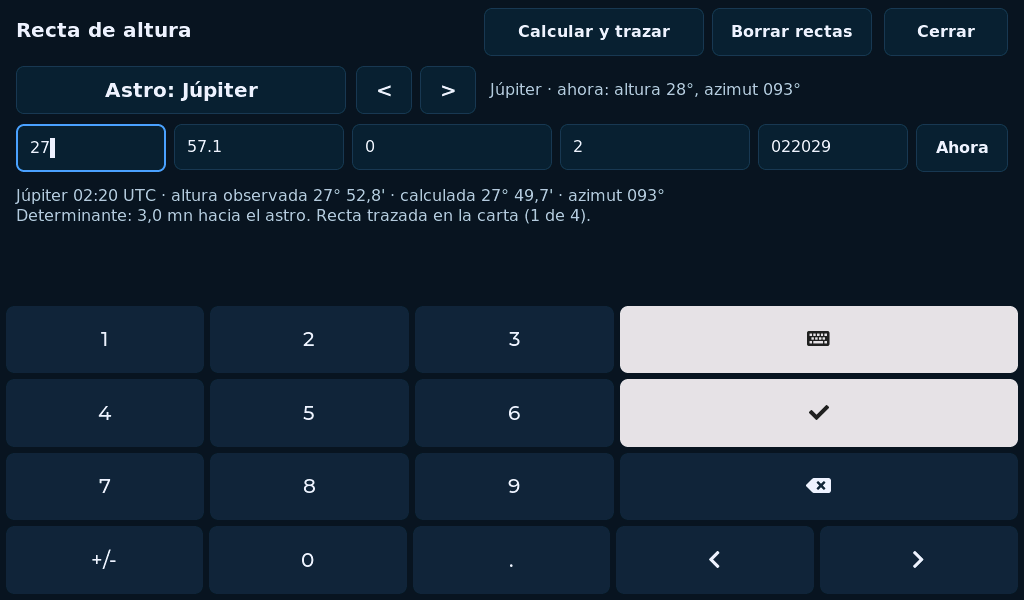
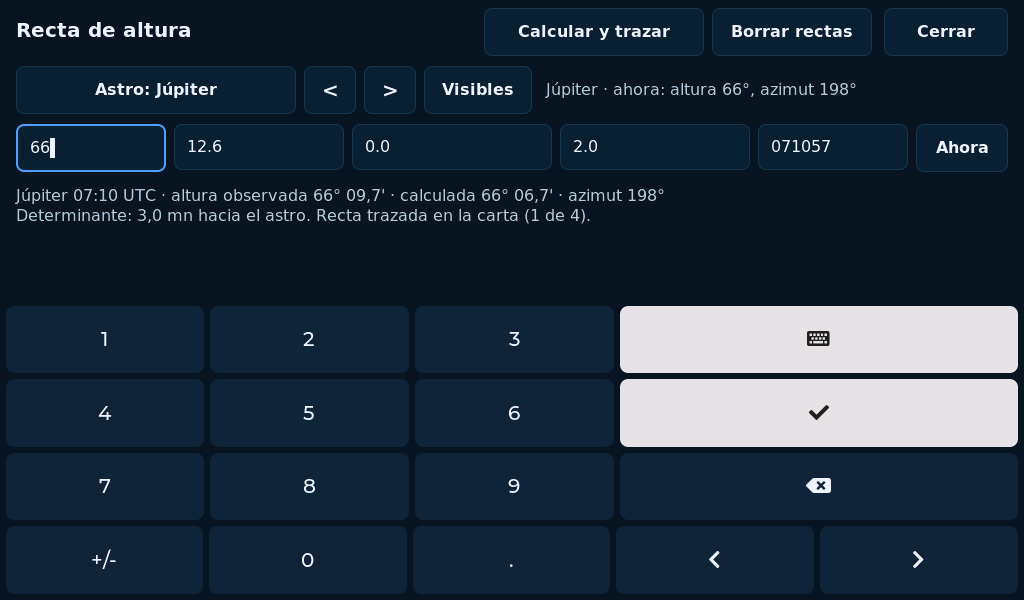
Astro: lista de astros visibles ahora y las tres estrellas que mejor sitúan
Claude-Session: https://claude.ai/code/session_017B8KvGdeNYekR2x3YiyR1X

diff --git a/src/ui.cpp b/src/ui.cpp
@@ -214,6 +214,9 @@ static lv_obj_t* astroKb = nullptr;
 static lv_obj_t* astroBodyLbl = nullptr;
 static lv_obj_t* astroStarLbl = nullptr;
 static lv_obj_t* astroOut = nullptr;
+static lv_obj_t* astroListScr = nullptr;                 // Astro > Visibles
+static lv_obj_t* astroListBox = nullptr;
+static lv_obj_t* astroListNote = nullptr;
 static int astroBody = 0;                               // 0 / 1 Sol limbo inferior / superior, 2 / 3 Luna, 4 a 7 Venus, Marte, Jupiter y Saturno, 8 estrella
 static int astroStar = 0;
 static void openAstro();
@@ -2116,6 +2119,95 @@ static void astroCompute() {
     lv_label_set_text(astroOut, b);
 }
 
+// ---- Astro > Visibles: lo que se puede observar ahora, por azimut, con las tres estrellas que mejor sitúan ----
+static plotter::SkyItem astroSky[200];
+static int astroSkyN = 0;
+static void openAstroList();
+
+static void onAstroPick(lv_event_t* e) {
+    const int i = (int)(intptr_t)lv_event_get_user_data(e);
+    lv_obj_set_hidden(astroListScr, true);
+    if (i < 0 || i >= astroSkyN) return;
+    const plotter::SkyItem& s = astroSky[i];
+    if (s.kind == 0) astroBody = 0;
+    else if (s.kind == 1) astroBody = 2;
+    else if (s.kind == 2) astroBody = 4 + s.index;
+    else { astroBody = kAstroStar; astroStar = s.index; }
+    astroRefresh();
+}
+
+static void makeAstroList() {
+    astroListScr = lv_obj_create(astroScr);
+    lv_obj_remove_style_all(astroListScr);
+    lv_obj_set_size(astroListScr, board::W, board::H);
+    lv_obj_set_style_bg_color(astroListScr, lv_color_hex(C_BG), 0);
+    lv_obj_set_style_bg_opa(astroListScr, LV_OPA_COVER, 0);
+    lv_obj_set_scrollable(astroListScr, false);
+    lv_obj_set_clickable(astroListScr, true);
+    lv_obj_t* t = label(astroListScr, "Astros visibles ahora", &dejavu_bold_20, C_TEXT);
+    lv_obj_set_pos(t, 16, 18);
+    lv_obj_t* b = textButton(astroListScr, "Cerrar", 124, 48, onAstroPick, -1);
+    lv_obj_set_pos(b, 884, 8);
+    astroListNote = label(astroListScr, "", &dejavu_16, C_SOFT);
+    lv_obj_set_pos(astroListNote, 16, 64);
+    lv_obj_set_width(astroListNote, 992);
+    astroListBox = lv_obj_create(astroListScr);
+    lv_obj_remove_style_all(astroListBox);
+    lv_obj_set_pos(astroListBox, 16, 116);
+    lv_obj_set_size(astroListBox, 992, board::H - 126);
+    lv_obj_set_flex_flow(astroListBox, LV_FLEX_FLOW_ROW_WRAP);
+    lv_obj_set_style_pad_gap(astroListBox, 8, 0);
+    lv_obj_set_scroll_dir(astroListBox, LV_DIR_VER);
+}
+
+static void openAstroList() {
+    if (!astroListScr) makeAstroList();
+    lv_obj_clean(astroListBox);
+    astroSkyN = 0;
+    const uint32_t now = millis();
+    double la, lo;
+    const int64_t t = tsync::now();
+    if (!store->get(Key::Lat, now, la) || !store->get(Key::Lon, now, lo) || t < 1600000000) {
+        lv_label_set_text(astroListNote, "Hace falta la posici\xC3\xB3n del barco y la hora para saber qu\xC3\xA9 astros hay sobre el horizonte.");
+        lv_obj_set_hidden(astroListScr, false);
+        return;
+    }
+    const double jd = t / 86400.0 + 2440587.5;
+    astroSkyN = plotter::visibleBodies(jd, la, lo, 10, 80, astroSky, 200);
+    int best[3] = {-1, -1, -1};
+    const bool trio = plotter::bestStarTriple(astroSky, astroSkyN, best);
+    double gha, dec, sunAlt, sunAz;
+    plotter::sunGhaDec(jd, gha, dec);
+    plotter::bodyAltAz(gha, dec, la, lo, sunAlt, sunAz);
+    char note[260];
+    const char* phase = sunAlt > -3 ? " Es de d\xC3\xAD" "a: de las estrellas solo se ven las m\xC3\xA1s brillantes, y con dificultad."
+                      : (sunAlt < -12 ? " Noche cerrada: sin horizonte visible las alturas no son fiables."
+                                      : " Crep\xC3\xBAsculo: buen momento para tomar estrellas.");
+    snprintf(note, sizeof(note), "Entre 10\xC2\xB0 y 80\xC2\xB0 de altura, por azimut.%s%s", phase,
+             trio ? "\nEn amarillo, las tres estrellas que mejor reparten el horizonte." : "");
+    lv_label_set_text(astroListNote, note);
+    static const char* pn[] = {"Venus", "Marte", "J\xC3\xBApiter", "Saturno"};
+    for (int i = 0; i < astroSkyN; i++) {
+        const plotter::SkyItem& s = astroSky[i];
+        const bool pick = trio && (i == best[0] || i == best[1] || i == best[2]);
+        char txt[64];
+        const char* nm = s.kind == 0 ? "Sol" : (s.kind == 1 ? "Luna" : (s.kind == 2 ? pn[s.index & 3] : plotter::navStar(s.index).name));
+        snprintf(txt, sizeof(txt), "%s  %.0f\xC2\xB0 / %03.0f\xC2\xB0", nm, (double)s.alt, (double)s.az);
+        lv_obj_t* b = textButton(astroListBox, txt, 324, 44, onAstroPick, i);
+        if (s.kind < 3 || s.index < plotter::navStarCount())                // los de las tablas diarias, en blanco; los demas, apagados
+            lv_obj_set_style_text_color(lv_obj_get_child(b, 0), lv_color_hex(C_TEXT), 0);
+        else lv_obj_set_style_text_color(lv_obj_get_child(b, 0), lv_color_hex(C_SOFT), 0);
+        if (pick) {
+            lv_obj_set_style_border_color(b, lv_color_hex(C_WARN), 0);
+            lv_obj_set_style_border_width(b, 3, 0);
+            lv_obj_set_style_text_color(lv_obj_get_child(b, 0), lv_color_hex(C_WARN), 0);
+        }
+    }
+    if (!astroSkyN) lv_label_set_text(astroListNote, "Ning\xC3\xBAn astro entre 10\xC2\xB0 y 80\xC2\xB0 de altura.");
+    lv_obj_scroll_to_y(astroListBox, 0, LV_ANIM_OFF);
+    lv_obj_set_hidden(astroListScr, false);
+}
+
 static void onAstroBtn(lv_event_t* e) {
     const int a = (int)(intptr_t)lv_event_get_user_data(e);
     if (a == 0) astroBody = (astroBody + 1) % 9;
@@ -2124,6 +2216,7 @@ static void onAstroBtn(lv_event_t* e) {
     else if (a == 3) astroNow();
     else if (a == 4) astroCompute();
     else if (a == 5) { lopN = 0; astroFixOn = false; lv_label_set_text(astroOut, "Rectas borradas."); }
+    else if (a == 7) { openAstroList(); return; }
     else { lv_obj_set_hidden(astroScr, true); return; }
     astroRefresh();
 }
@@ -2153,15 +2246,18 @@ static void makeAstro() {
     lv_obj_set_pos(b, 712, 8);
     b = textButton(astroScr, "Cerrar", 124, 48, onAstroBtn, 6);
     lv_obj_set_pos(b, 884, 8);
-    b = textButton(astroScr, "", 330, 48, onAstroBtn, 0);
+    b = textButton(astroScr, "", 280, 48, onAstroBtn, 0);
     lv_obj_set_pos(b, 16, 66);
     astroBodyLbl = lv_obj_get_child(b, 0);
-    b = textButton(astroScr, "<", 56, 48, onAstroBtn, 1);
-    lv_obj_set_pos(b, 356, 66);
-    b = textButton(astroScr, ">", 56, 48, onAstroBtn, 2);
-    lv_obj_set_pos(b, 420, 66);
+    lv_obj_set_style_text_font(astroBodyLbl, &dejavu_bold_16, 0);
+    b = textButton(astroScr, "<", 52, 48, onAstroBtn, 1);
+    lv_obj_set_pos(b, 304, 66);
+    b = textButton(astroScr, ">", 52, 48, onAstroBtn, 2);
+    lv_obj_set_pos(b, 364, 66);
+    b = textButton(astroScr, "Visibles", 108, 48, onAstroBtn, 7);
+    lv_obj_set_pos(b, 424, 66);
     astroStarLbl = label(astroScr, "", &dejavu_16, C_SOFT);
-    lv_obj_set_pos(astroStarLbl, 490, 80);
+    lv_obj_set_pos(astroStarLbl, 546, 80);
     static const struct { int x, w, max; const char* hint; const char* chars; } F[5] = {
         {16, 150, 2, "Grados", "0123456789"}, {174, 170, 4, "Minutos", "0123456789.,"}, {352, 200, 5, "Error \xC3\xADndice, '", "-0123456789.,"},
         {560, 190, 4, "Ojo, m", "0123456789.,"}, {758, 150, 6, "UTC hhmmss", "0123456789"}};
@@ -2233,6 +2329,7 @@ void testAstro(const char* star, double errArcmin) {
 }
 
 void closeAstro() { if (astroScr) lv_obj_set_hidden(astroScr, true); }
+void testAstroList() { if (!astroScr) return; lv_obj_set_hidden(astroScr, false); openAstroList(); }
 
 static void makeAbout() {
     aboutScr = lv_obj_create(lv_layer_top());

diff --git a/lib/plotter_core/src/celnav.cpp b/lib/plotter_core/src/celnav.cpp
@@ -320,4 +320,53 @@ bool fixFromSights(double lat, double lon, const Sight* sg, int n, double& outLa
     return true;
 }
 
+int visibleBodies(double jd, double lat, double lon, double minAlt, double maxAlt, SkyItem* out, int max) {
+    int n = 0;
+    auto add = [&](int kind, int index, double gha, double dec, float mag) {
+        if (n >= max) return;
+        double alt, az;
+        bodyAltAz(gha, dec, lat, lon, alt, az);
+        if (alt < minAlt || alt > maxAlt) return;
+        out[n++] = SkyItem{(unsigned char)kind, (short)index, (float)alt, (float)az, mag};
+    };
+    double gha, dec, d;
+    sunGhaDec(jd, gha, dec);
+    add(0, 0, gha, dec, -26.7f);
+    moonGhaDec(jd, gha, dec, d);
+    add(1, 0, gha, dec, -10.0f);
+    static const float pmag[4] = {-4.2f, 0.5f, -2.3f, 0.7f};
+    for (int p = 0; p < 4; p++) {
+        planetGhaDec(Planet(p), jd, gha, dec, d);
+        add(2, p, gha, dec, pmag[p]);
+    }
+    const double aries = ariesGha(jd);
+    for (int i = 0; i < kStarCount; i++) {
+        double sha;
+        starShaDec(kStars[i], jd, sha, dec);
+        add(3, i, std::fmod(aries + sha, 360.0), dec, kStars[i].mag);
+    }
+    for (int i = 1; i < n; i++)                                   // por azimut (insercion: pocas decenas)
+        for (int j = i; j > 0 && out[j].az < out[j - 1].az; j--) { SkyItem t = out[j]; out[j] = out[j - 1]; out[j - 1] = t; }
+    return n;
+}
+
+bool bestStarTriple(const SkyItem* it, int n, int idx[3]) {
+    auto sep = [](float a, float b) { float d = std::fabs(a - b); return d > 180 ? 360 - d : d; };
+    double best = -1;
+    for (int a = 0; a < n; a++) {
+        if (it[a].kind != 3 || it[a].alt < 15 || it[a].alt > 75) continue;
+        for (int b = a + 1; b < n; b++) {
+            if (it[b].kind != 3 || it[b].alt < 15 || it[b].alt > 75) continue;
+            for (int c = b + 1; c < n; c++) {
+                if (it[c].kind != 3 || it[c].alt < 15 || it[c].alt > 75) continue;
+                float m = std::fmin(sep(it[a].az, it[b].az), std::fmin(sep(it[a].az, it[c].az), sep(it[b].az, it[c].az)));
+                // reparto en pasos de 10 grados; dentro del mismo paso, mas brillo (magnitud menor) gana
+                const double score = std::floor(m / 10.0) * 100.0 - (it[a].mag + it[b].mag + it[c].mag);
+                if (score > best) { best = score; idx[0] = a; idx[1] = b; idx[2] = c; }
+            }
+        }
+    }
+    return best >= 0;
+}
+
 }  // namespace plotter

diff --git a/test/host/test_core.cpp b/test/host/test_core.cpp
@@ -2049,6 +2049,31 @@ static void testCelnav() {
     // Otras estrellas (catalogo HYG / Hipparcos) contra la tabla mensual del almanaque de junio de 2026 (medias del mes: 0,3')
     CHECK(starCount() == 157 && navStarFind("Caph") >= 58 && std::string(navStar(57).name) == "Polaris");
     {
+        // Cielo visible: 15 de junio de 2026, 21:30 UTC, en 36,5 N 6,3 W (crepusculo nautico en Cadiz)
+        static SkyItem it[200];
+        const double jd = julianDay(2026, 6, 15, 21.5);
+        const int n = visibleBodies(jd, 36.5, -6.3, 10, 80, it, 200);
+        bool sorted = true, inRange = true, sun = false, vega = false, polaris = false;
+        for (int i = 0; i < n; i++) {
+            if (i && it[i].az < it[i - 1].az) sorted = false;
+            if (it[i].alt < 10 || it[i].alt > 80) inRange = false;
+            if (it[i].kind == 0) sun = true;
+            if (it[i].kind == 3 && std::string(navStar(it[i].index).name) == "Vega") vega = true;
+            if (it[i].kind == 3 && it[i].index == 57) {
+                polaris = near(it[i].alt, 36.5 + (navStar(57).decDeg - 90) * std::cos(deg2rad(it[i].az)) * 0, 1.0);
+            }
+        }
+        CHECK(n > 40 && sorted && inRange && !sun && vega && polaris);
+        int t[3];
+        CHECK(bestStarTriple(it, n, t));
+        auto sep = [](float a, float b) { float d = std::fabs(a - b); return d > 180 ? 360 - d : d; };
+        CHECK(sep(it[t[0]].az, it[t[1]].az) >= 100 && sep(it[t[0]].az, it[t[2]].az) >= 100 && sep(it[t[1]].az, it[t[2]].az) >= 100);
+        CHECK(it[t[0]].kind == 3 && it[t[1]].kind == 3 && it[t[2]].kind == 3 && it[t[0]].mag < 2.5 && it[t[1]].mag < 2.5 && it[t[2]].mag < 2.5);
+        SkyItem day[10];
+        const int nd = visibleBodies(julianDay(2026, 6, 15, 12), 36.5, -6.3, 10, 90, day, 10);
+        CHECK(nd == 10 && !bestStarTriple(day, 0, t));
+    }
+    {
         struct { const char* n; double sha, dec; } ex[] = {{"Caph", 357 + 21.3 / 60, 59 + 17.5 / 60}, {"Mimosa", 167 + 40.6 / 60, -(59 + 50.3 / 60)},
             {"Scheat", 13 + 44.0 / 60, 28 + 13.4 / 60}, {"Alhena", 260 + 11.6 / 60, 16 + 22.6 / 60}, {"Sargas", 95 + 11.1 / 60, -(43 + 0.8 / 60)}};
         for (const auto& x : ex) {

diff --git a/lib/plotter_core/src/celnav.h b/lib/plotter_core/src/celnav.h
@@ -72,4 +72,16 @@ Sight advanceSight(const Sight& s, double fromLat, double fromLon, double toLat,
 // Situacion por dos o mas rectas (minimos cuadrados alrededor de la estima). false si son casi paralelas.
 bool fixFromSights(double estLat, double estLon, const Sight* sights, int n, double& lat, double& lon);
 
+// Astros que se pueden observar ahora: Sol, Luna, los cuatro planetas y las estrellas entre minAlt y maxAlt (altura
+// verdadera, grados), ordenados por azimut. kind: 0 Sol, 1 Luna, 2 planeta (index = Planet), 3 estrella (index de navStar).
+struct SkyItem {
+    unsigned char kind;
+    short index;
+    float alt, az, mag;            // mag: la del catalogo en estrellas; aproximada en el resto
+};
+int visibleBodies(double jd, double lat, double lon, double minAlt, double maxAlt, SkyItem* out, int max);
+// Tres estrellas para una buena situacion: las que mejor reparten el horizonte (mayor separacion minima de azimut,
+// lo ideal 120 grados), y entre parecidas las mas brillantes. Solo estrellas de 15 a 75 grados. false si no hay tres.
+bool bestStarTriple(const SkyItem* items, int n, int idx[3]);
+
 }  // namespace plotter

diff --git a/tools/ui_preview/host.cpp b/tools/ui_preview/host.cpp
@@ -68,6 +68,7 @@ int main(int argc, char** argv) {
             else if (a == "barco") ui::testVessel();
             else if (a.rfind("astro:", 0) == 0) { size_t c = a.find(':', 6); ui::testAstro(a.substr(6, c == std::string::npos ? c : c - 6).c_str(), c == std::string::npos ? 0.0 : atof(a.c_str() + c + 1)); }
             else if (a == "astrocerrar") ui::closeAstro();
+            else if (a == "astrolista") ui::testAstroList();
             else if (a == "rs485") ui::testRs485();
             else if (sscanf(a.c_str(), "piloto:%d", &x) == 1) settings::get().pilotOut = x;   // 1 RS485, 2 red, 3 Bluetooth
             else if (a == "internet") ui::testInternet();

diff --git a/src/ui.h b/src/ui.h
@@ -19,6 +19,7 @@ void testRs485();                   // abre el aviso de RS485 compartido
 void testInternet();                // mete una observacion de internet de prueba
 void testNet();                     // abre la pantalla de red
 void testAbout();                   // abre "Acerca de"
+void testAstroList();                                  // Astro > Visibles (dibujo del PC)
 void testAstro(const char* star, double errArcmin);   // abre Carta > Astro y traza una recta ("" = el Sol)
 void closeAstro();
 void testVessel();                  // abre Ajustes > Embarcacion

diff --git a/CLAUDE.md b/CLAUDE.md
@@ -506,6 +506,8 @@ Maquetas (lienzo Design, cuatro páginas por fases): https://claude.ai/artifact/
 
 - **Otras estrellas e índice / ojo en NVS (2026-11-15; Manuel: «Continuar»)**: `celnav_stars.inc` con 157 estrellas: las 58 de siempre (mismos índices, `navStarCount()` = 58) y detrás 99 de las «otras estrellas» del almanaque más las de sus páginas diarias que faltaban (Albireo, Almach, Castor, Cor Caroli, Merak, Mizar, Phact), `starCount()`. Datos en `tools/celnav/extra_stars.csv`, sacados de la HYG Database v4.1 (CC BY-SA 4.0, Hipparcos) casando por posición con la tabla del almanaque (todas a ≤ 0,3′ salvo Beta Hyi, 0,5′); nombres propios de la UAI o «Beta Hyi». `make_stars.py` las añade. Carta > Astro recorre las 157; `settings.astroIdx10` / `astroEye10` (NVS `astIdx`, `astEye`) guardan error de índice y ojo al calcular. 1824 comprobaciones. **Rectas en el mapa de la app: descartado por Manuel.**
 
+- **Astros visibles (2026-11-15; Manuel: «continua»)**: `celnav::visibleBodies` (Sol, Luna, planetas y las 157 estrellas entre dos alturas, por azimut; `SkyItem`) y `bestStarTriple` (tres estrellas de 15° a 75° con la mayor separación mínima de azimut en pasos de 10°, y entre iguales las más brillantes). Carta > Astro > **Visibles** (`openAstroList`, 10° a 80°, botones de 3 columnas; blanco = tablas diarias, gris = las otras 99, amarillo = el trío; nota de día / crepúsculo (−3° a −12°) / noche). El rótulo del astro pasa a negrita de 16 (no cabía «Luna (limbo inferior)»). Dibujo: acción `astrolista`; captura `astro_visibles.png`. 1829 comprobaciones.
+
 ## Siguiente
 1. Hechos Instrumentos, Carta (teselas, ir a, waypoints, MOB), Radar AIS, alertas y Ajustes básicos (ver Estado). Rutas y
    medir hechos. Fondeo, unidades, mapa base, NMEA 2000 (escucha) y red (WiFi, NMEA por TCP / UDP, gpsd) hechos. Pestaña Viento hecha. Pestaña Piloto hecha. Relevo por internet y pestaña Meteo hechos. BLE con la pasarela hecho (lado plotter). Signal K nativo hecho. Lo siguiente: zumbador (pin por decidir), AEMET, lista de equipos BLE, y probar en la placa.

diff --git a/docs/MANUAL_USUARIO.md b/docs/MANUAL_USUARIO.md
@@ -126,6 +126,10 @@ Si pasa un minuto sin posición, **ANCHOR WATCH · NO GPS FIX**. El fondeo se gu
 El botón **Astro** de la carta abre *Recta de altura*, para situarse con el sextante sin tablas ni almanaque:
 
 1. Elige el astro: el botón *Astro* pasa por **Sol** y **Luna** (limbo inferior o superior), **Venus**, **Marte**, **Júpiter**, **Saturno** y **Estrella**; con `<` y `>` se recorren las 57 estrellas de navegación y la Polar y, detrás, otras 99 estrellas brillantes de los almanaques (Caph, Mimosa, Castor, Mizar...). De la Luna, los planetas y cada estrella se dice la altura y el azimut que tiene ahora, para reconocerla.
+   **Visibles** abre la lista de lo que hay ahora entre 10° y 80° de altura (Sol, Luna, planetas y estrellas), ordenada por azimut, con altura y azimut de cada uno; tocar uno lo elige. En blanco, los de las tablas diarias del almanaque; en gris, las demás estrellas. **En amarillo, las tres estrellas que mejor reparten el horizonte** (las más separadas en azimut, lo ideal 120°, y entre parecidas las más brillantes). Avisa si es de día, crepúsculo (el buen momento) o noche cerrada.
+
+   ![Astros visibles](img/astro_visibles.png)
+
 2. En el instante de la medida pulsa **Ahora** (o escribe la hora UTC como `hhmmss`).
 3. Escribe la altura del sextante (grados y minutos), el error de índice en minutos (positivo si el sextante marca de más) y la elevación del ojo en metros. Estos dos últimos se recuerdan para la próxima vez.
 4. **Calcular y trazar**: se aplican la depresión del horizonte, la refracción, el semidiámetro y el paralaje (del Sol, de la Luna —hasta 1° — y de los planetas), y sale la altura observada, la calculada, el azimut y el **determinante** (millas hacia el astro o en contra). La recta queda dibujada en la carta, en amarillo, con el astro y la hora.

diff --git a/docs/USER_MANUAL_EN.md b/docs/USER_MANUAL_EN.md
@@ -130,6 +130,10 @@ power cycle.
 The **Astro** button on the chart opens *Recta de altura* (line of position), to fix your position with a sextant, with no tables or almanac:
 
 1. Choose the body: the *Astro* button cycles **Sol (limbo inferior)** (Sun, lower limb), **Sol (limbo superior)** (upper limb) and **Estrella** (star); `<` and `>` step through the 57 navigational stars and Polaris, followed by 99 more bright almanac stars (Caph, Mimosa, Castor, Mizar...). The index error and eye height are remembered for next time. For each star it shows its altitude and azimuth right now, to identify it.
+   **Visibles** (visible now) lists what is between 10° and 80° of altitude right now (Sun, Moon, planets and stars), sorted by azimuth, with altitude and azimuth; tap one to choose it. White: bodies of the almanac daily pages; grey: the other stars. **Yellow: the three stars that best spread round the horizon** (widest azimuth separation, ideally 120°, brightest among similar ones). The note says whether it is day, twilight (the right time) or full night.
+
+   ![Visible bodies](img/astro_visibles.png)
+
 2. At the instant of the sight press **Ahora** (now), or type the UTC time as `hhmmss`.
 3. Type the sextant altitude (*Grados*, *Minutos*), the index error in minutes (*Error índice*, positive if the sextant reads high) and the height of eye in metres (*Ojo*).
 4. **Calcular y trazar** (compute and plot): dip, refraction, semi-diameter and the Sun's parallax are applied, and you get the observed altitude, the computed altitude, the azimuth and the **intercept** (*Determinante*: miles *hacia el astro*, towards, or *en contra*, away). The line is drawn on the chart in yellow, with the body and the time.

diff --git a/docs/QUICK_GUIDE_EN.md b/docs/QUICK_GUIDE_EN.md
@@ -25,7 +25,7 @@ On power-up the APRS LoRa+ welcome screen (logo and version) shows for a couple 
 | Tab | What it is for |
 |---|---|
 | Instrumentos (Instruments) | Speed, course, depth, wind and temperature, with the source of each value. Tap the tab again: **Motor** (engine) page (rpm, temperatures, oil, fuel, battery, fuel rate, hours; over NMEA 2000 or J1939) |
-| Carta (Chart) | Map, boat, track, AIS targets, waypoints, routes, measuring, anchoring and **Astro** (sextant line of position: Sun, Moon, Venus, Mars, Jupiter, Saturn and 157 stars, no almanac needed) |
+| Carta (Chart) | Map, boat, track, AIS targets, waypoints, routes, measuring, anchoring and **Astro** (sextant line of position: Sun, Moon, Venus, Mars, Jupiter, Saturn and 157 stars, with a list of the bodies visible now, no almanac needed) |
 | Rutas (Routes) | Waypoint list and the route |
 | Radar AIS | Targets around the boat, with collision risk |
 | Viento (Wind) | Apparent and true wind dial, and a 10-minute history |

diff --git a/docs/GUIA_RAPIDA.md b/docs/GUIA_RAPIDA.md
@@ -23,7 +23,7 @@ Al encender sale un par de segundos la bienvenida de APRS LoRa+ (logo y versión
 | Pestaña | Para qué |
 |---|---|
 | Instrumentos | Velocidad, rumbo, profundidad, viento y temperatura, con la fuente de cada dato. Tocando otra vez la pestaña: página **Motor** (régimen, temperaturas, aceite, combustible, batería, consumo, horas; por NMEA 2000 o J1939) |
-| Carta | Mapa, barco, derrota, blancos AIS, waypoints, rutas, medir, fondeo y **Astro** (recta de altura con el sextante: Sol, Luna, Venus, Marte, Júpiter, Saturno y 157 estrellas, sin almanaque) |
+| Carta | Mapa, barco, derrota, blancos AIS, waypoints, rutas, medir, fondeo y **Astro** (recta de altura con el sextante: Sol, Luna, Venus, Marte, Júpiter, Saturno y 157 estrellas, con lista de los astros visibles, sin almanaque) |
 | Rutas | Lista de waypoints y la ruta |
 | Radar AIS | Blancos alrededor del barco, con riesgo de abordaje |
 | Viento | Esfera de viento aparente y real, e historial de 10 minutos |

diff --git a/CHANGELOG.md b/CHANGELOG.md
@@ -1,6 +1,7 @@
 # Changelog
 
 ## Sin publicar
+- **Astro > Visibles**: lista de lo que hay ahora entre 10° y 80° (Sol, Luna, planetas y estrellas) por azimut; toca uno para elegirlo; en amarillo, las tres estrellas que mejor reparten el horizonte.
 - **Astro: 99 estrellas más** (las «otras estrellas» de los almanaques: 157 en total; catálogo HYG / Hipparcos, CC BY-SA 4.0) y el error de índice y la elevación del ojo **se recuerdan**.
 - **Astro: Luna y planetas.** Luna (limbo inferior o superior, con su paralaje y semidiámetro; Meeus cap. 47 completo, 0,25′ frente al JPL DE421) y Venus, Marte, Júpiter y Saturno (VSOP87 recortada con tiempo de luz y aberración, 0,06′ frente a PyEphem) en `celnav` y en Carta > Astro. La posición de la Luna de Meteo usa la misma serie.
 - **Astro: traslado de rectas** (las anteriores se llevan al instante de la última por lo navegado, «(trasl.)») y **crepúsculo náutico** en la línea del Sol de Meteo.
